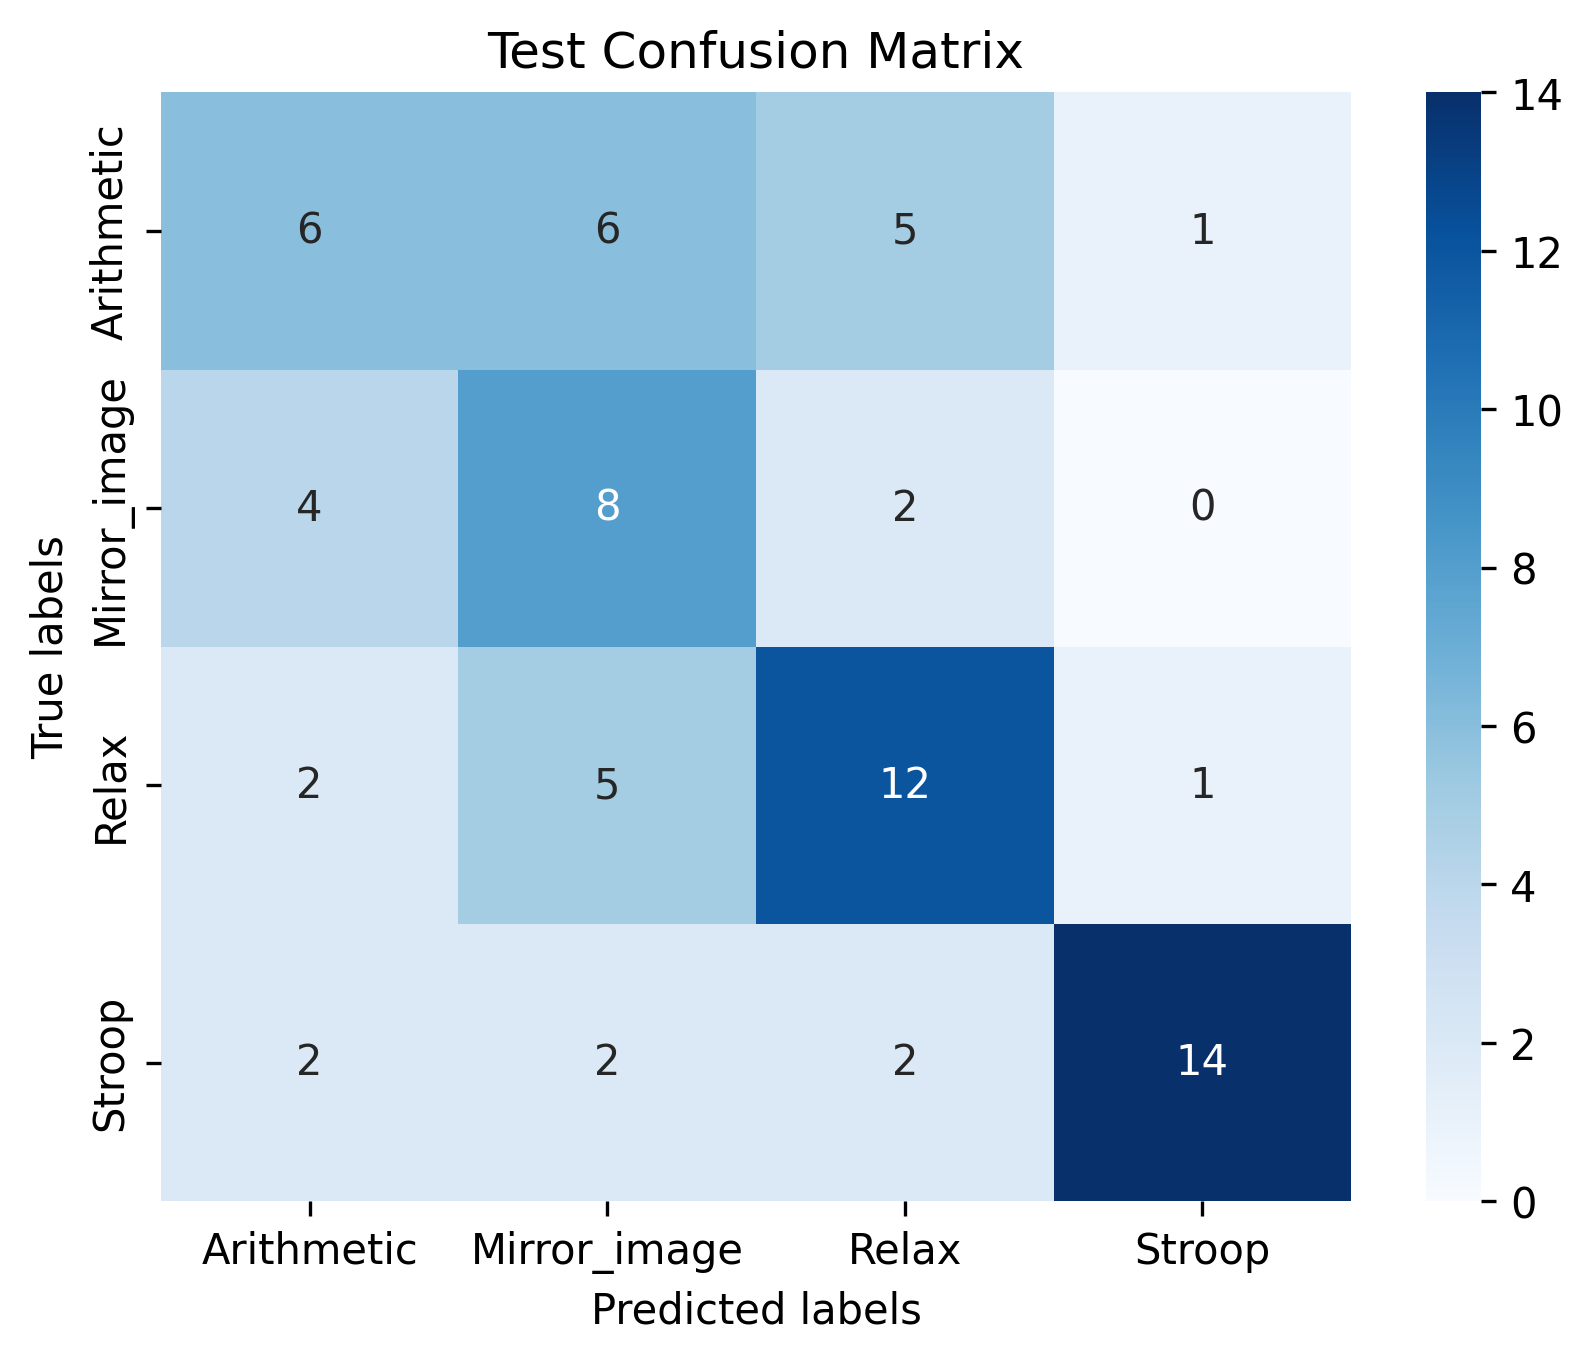
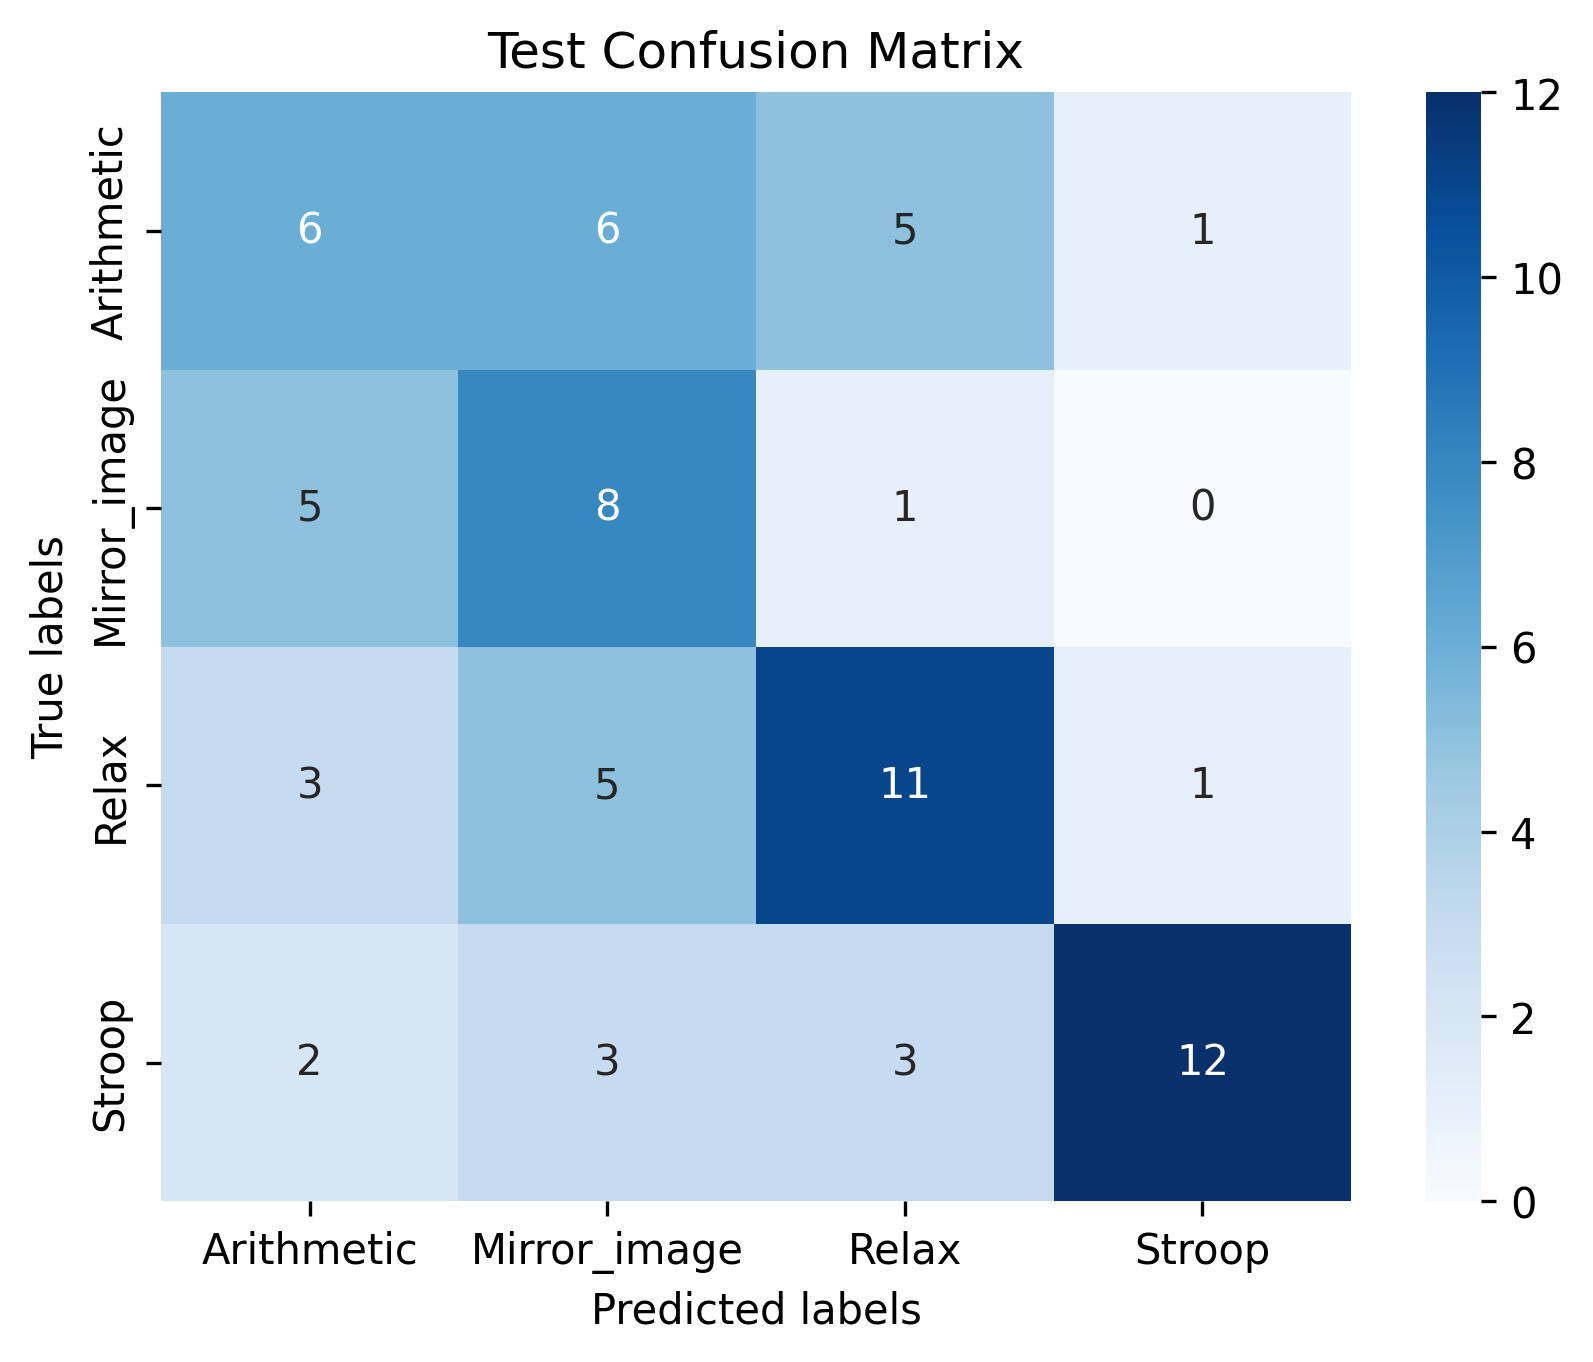
more epochs

diff --git a/EEG-classification/main.py b/EEG-classification/main.py
@@ -39,7 +39,7 @@ hyperparams = {
     "lr": 1e-3,
     "weight_decay": 7e-2,
     "batch_size": 128,
-    "epochs": 500
+    "epochs": 1000
 }
 
 
